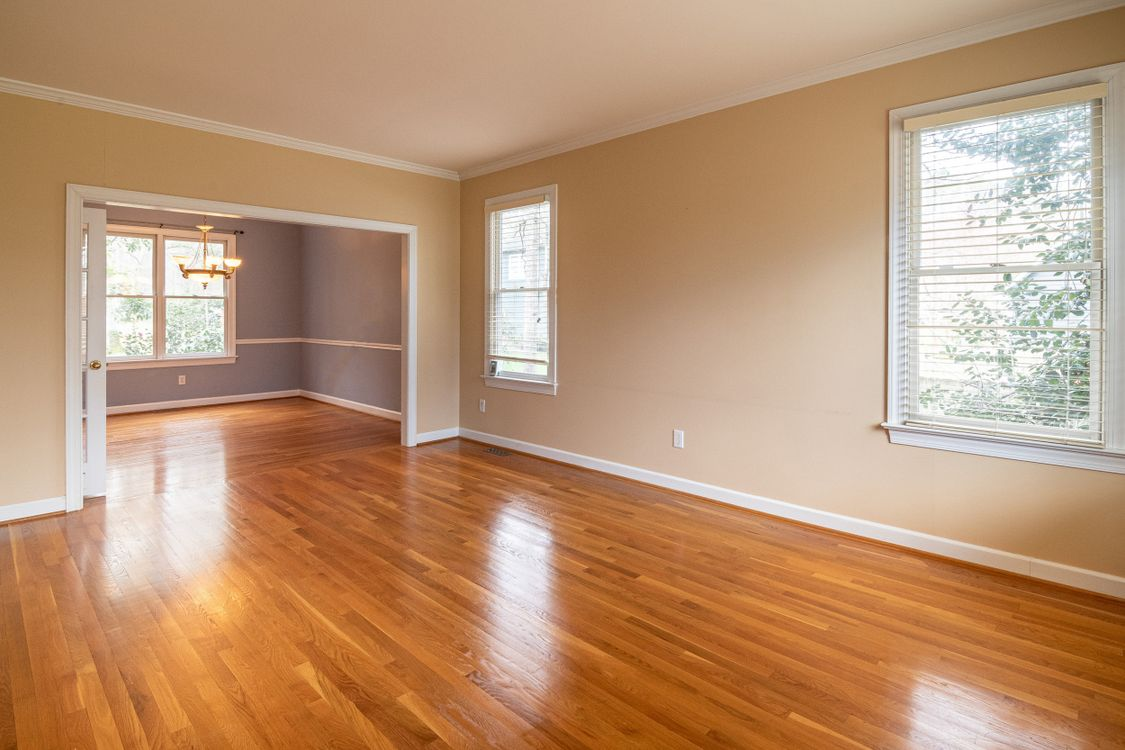
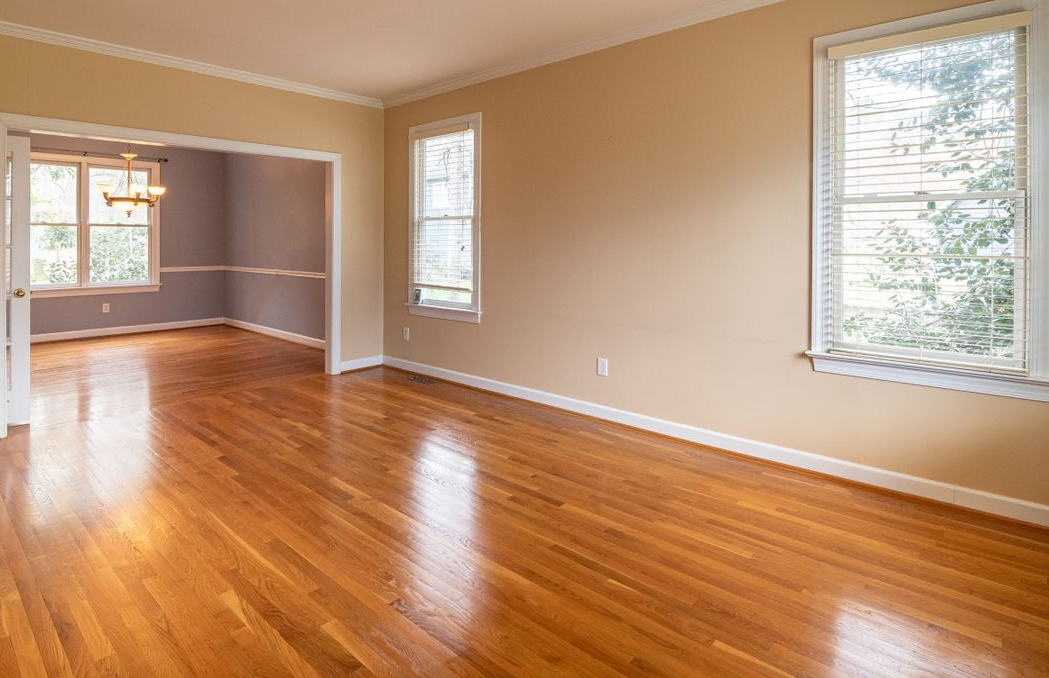
updated homepage

diff --git a/app/public/LandingPage/behindTheScene.tsx b/app/public/LandingPage/behindTheScene.tsx
@@ -1,20 +1,11 @@
 "use client";
 
-import { useState, useRef } from "react";
+import { useState, useRef, useEffect } from "react";
 
 export default function WorkProcessSection() {
   const [sliderPositions, setSliderPositions] = useState<{ [key: number]: number }>({});
-  const [isDragging, setIsDragging] = useState<{ [key: number]: boolean }>({});
-
-  const handleMouseMove = (index: number, e: React.MouseEvent<HTMLDivElement>) => {
-    if (!isDragging[index]) return;
-    
-    const rect = e.currentTarget.getBoundingClientRect();
-    const x = e.clientX - rect.left;
-    const percentage = Math.min(Math.max(0, (x / rect.width) * 100), 100);
-    
-    setSliderPositions(prev => ({ ...prev, [index]: percentage }));
-  };
+  const [activeIndex, setActiveIndex] = useState<number | null>(null);
+  const containerRefs = useRef<{ [key: number]: HTMLDivElement | null }>({});
 
   const steps = [
     {
@@ -43,18 +34,96 @@ export default function WorkProcessSection() {
     },
   ];
 
+  // Handle drag/move for both mouse and touch
+  const handleMove = (index: number, clientX: number) => {
+    const container = containerRefs.current[index];
+    if (!container) return;
+
+    const rect = container.getBoundingClientRect();
+    let x = clientX - rect.left;
+    
+    // Constrain to container bounds
+    x = Math.min(Math.max(x, 0), rect.width);
+    
+    // Calculate percentage (0-100)
+    const percentage = (x / rect.width) * 100;
+    
+    setSliderPositions(prev => ({ ...prev, [index]: percentage }));
+  };
+
+  // Mouse event handlers
+  const handleMouseDown = (index: number, e: React.MouseEvent) => {
+    e.preventDefault();
+    setActiveIndex(index);
+    handleMove(index, e.clientX);
+  };
+
+  const handleMouseMove = (e: MouseEvent) => {
+    if (activeIndex !== null) {
+      handleMove(activeIndex, e.clientX);
+    }
+  };
+
+  const handleMouseUp = () => {
+    setActiveIndex(null);
+  };
+
+  // Touch event handlers for mobile
+  const handleTouchStart = (index: number, e: React.TouchEvent) => {
+    e.preventDefault();
+    setActiveIndex(index);
+    const touch = e.touches[0];
+    if (touch) {
+      handleMove(index, touch.clientX);
+    }
+  };
+
+  const handleTouchMove = (e: TouchEvent) => {
+    if (activeIndex !== null) {
+      e.preventDefault();
+      const touch = e.touches[0];
+      if (touch) {
+        handleMove(activeIndex, touch.clientX);
+      }
+    }
+  };
+
+  const handleTouchEnd = () => {
+    setActiveIndex(null);
+  };
+
+  // Add global event listeners
+  useEffect(() => {
+    if (activeIndex !== null) {
+      window.addEventListener('mousemove', handleMouseMove);
+      window.addEventListener('mouseup', handleMouseUp);
+      window.addEventListener('touchmove', handleTouchMove, { passive: false });
+      window.addEventListener('touchend', handleTouchEnd);
+    }
+
+    return () => {
+      window.removeEventListener('mousemove', handleMouseMove);
+      window.removeEventListener('mouseup', handleMouseUp);
+      window.removeEventListener('touchmove', handleTouchMove);
+      window.removeEventListener('touchend', handleTouchEnd);
+    };
+  }, [activeIndex]);
+
   return (
     <section className="w-full bg-white py-24">
+      {/* HEADER */}
       <div className="mx-auto max-w-5xl px-6 text-center">
         <h2 className="text-4xl md:text-6xl font-semibold tracking-tight text-gray-900">
           From Skeleton to Masterpiece
         </h2>
+
         <p className="mt-5 text-gray-600 text-lg">
           Every project starts raw — exposed walls, unfinished floors, and open frames.
           We transform structure into precision-built spaces.
         </p>
       </div>
 
+      {/* GRID */}
       <div className="mx-auto mt-16 grid max-w-7xl grid-cols-1 gap-10 px-6 md:grid-cols-2">
         {steps.map((step, i) => {
           const sliderPosition = sliderPositions[i] ?? 50;
@@ -65,11 +134,10 @@ export default function WorkProcessSection() {
               className="relative overflow-hidden rounded-2xl shadow-lg"
             >
               <div 
-                className="relative h-[380px] w-full cursor-ew-resize select-none"
-                onMouseMove={(e) => handleMouseMove(i, e)}
-                onMouseDown={() => setIsDragging(prev => ({ ...prev, [i]: true }))}
-                onMouseUp={() => setIsDragging(prev => ({ ...prev, [i]: false }))}
-                onMouseLeave={() => setIsDragging(prev => ({ ...prev, [i]: false }))}
+                ref={(el) => { containerRefs.current[i] = el; }}
+                className="relative h-[380px] w-full select-none touch-none"
+                onMouseDown={(e) => handleMouseDown(i, e)}
+                onTouchStart={(e) => handleTouchStart(i, e)}
               >
                 {/* Before Image (full image) */}
                 <div
@@ -77,7 +145,7 @@ export default function WorkProcessSection() {
                   style={{ backgroundImage: `url('${step.beforeImage}')` }}
                 />
                 
-                {/* After Image (clipped) */}
+                {/* After Image (clipped based on slider position) */}
                 <div
                   className="absolute inset-0 bg-cover bg-center"
                   style={{
@@ -88,17 +156,26 @@ export default function WorkProcessSection() {
                 
                 {/* Slider Handle */}
                 <div
-                  className="absolute top-0 bottom-0 w-1 bg-white shadow-lg cursor-ew-resize"
+                  className="absolute top-0 bottom-0 w-1 bg-white shadow-lg cursor-ew-resize touch-none"
                   style={{ left: `${sliderPosition}%` }}
                 >
-                  <div className="absolute top-1/2 left-1/2 -translate-x-1/2 -translate-y-1/2 w-8 h-8 bg-white rounded-full shadow-lg flex items-center justify-center">
-                    <svg className="w-4 h-4 text-gray-800" fill="none" stroke="currentColor" viewBox="0 0 24 24">
+                  {/* Drag handle button - easier to grab on mobile */}
+                  <div className="absolute top-1/2 left-1/2 -translate-x-1/2 -translate-y-1/2 w-10 h-10 bg-white rounded-full shadow-lg flex items-center justify-center cursor-grab active:cursor-grabbing">
+                    <svg className="w-5 h-5 text-gray-800" fill="none" stroke="currentColor" viewBox="0 0 24 24">
                       <path strokeLinecap="round" strokeLinejoin="round" strokeWidth={2} d="M8 9l4-4 4 4m0 6l-4 4-4-4" />
                     </svg>
                   </div>
                 </div>
+
+                {/* Instruction overlay - shows on first load */}
+                {sliderPositions[i] === undefined && (
+                  <div className="absolute bottom-20 left-1/2 -translate-x-1/2 bg-black/60 text-white text-xs px-3 py-1.5 rounded-full whitespace-nowrap pointer-events-none animate-pulse">
+                    👆 Drag to see transformation
+                  </div>
+                )}
               </div>
 
+              {/* Text Overlay */}
               <div className="absolute bottom-0 left-0 right-0 p-6 bg-gradient-to-t from-black/80 via-black/30 to-transparent">
                 <div className="flex gap-2 mb-2">
                   <span className="text-xs font-semibold text-white/70 bg-black/50 px-2 py-0.5 rounded-full">
@@ -114,8 +191,8 @@ export default function WorkProcessSection() {
                 <p className="mt-2 text-white/80 text-sm">
                   {step.desc}
                 </p>
-                <p className="mt-2 text-xs text-white/60">
-                  💡 Drag the slider to see before/after
+                <p className="mt-2 text-xs text-white/60 flex items-center gap-1">
+                  <span>💡</span> Drag the slider — works on touch screens too
                 </p>
               </div>
             </div>